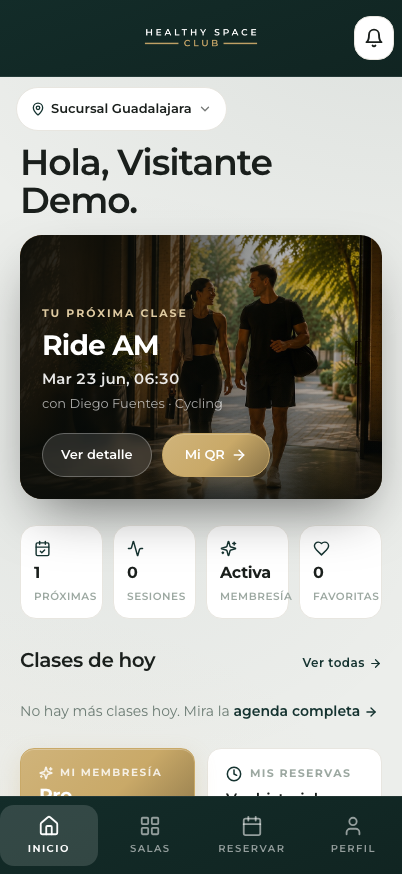
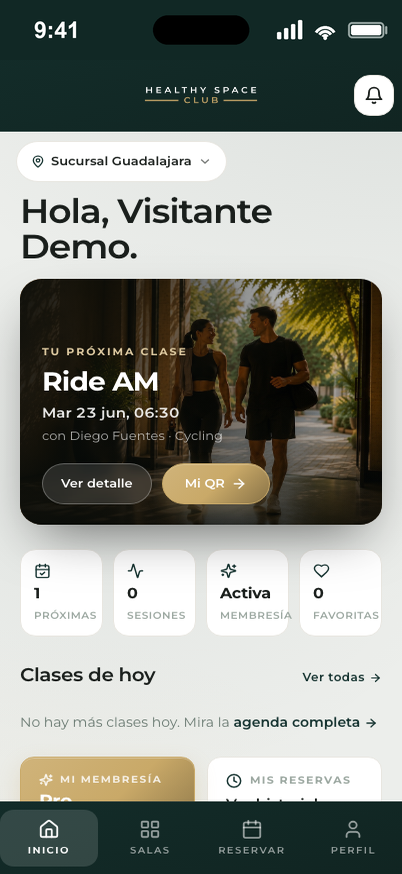
fix(showcase): status bar horneada también en los 2 teléfonos del socio
Misma barra (hora + Dynamic Island + íconos) horneada en inicio.png y socio.png
sobre el verde #112825 del header de la app. Para no recortar el bottom nav, se
mantiene el alto (402x874): barra de 60px arriba + app reescalada a 814 (squish
~7%, imperceptible). PhoneFrame con bakedStatusBar (sin notch propio).

diff --git a/src/public/pages/SalaLanding.tsx b/src/public/pages/SalaLanding.tsx
@@ -573,8 +573,8 @@ function Showcase() {
           texto="Su próxima clase y su QR de acceso al abrir. Reservan, entran a lista de espera y muestran el código desde el celular. Sin descargar nada: una web app instalable con tu marca."
           media={
             <div style={{ display: 'flex', alignItems: 'center', justifyContent: 'center', gap: 'clamp(12px, 2.5vw, 26px)', flexWrap: 'wrap' }}>
-              <PhoneFrame src={shot('inicio')} alt="Inicio de la app: tu próxima clase y tu QR de acceso" width="min(208px, 45vw)" />
-              <PhoneFrame src={shot('socio')} alt="Socio reservando una clase del día" width="min(208px, 45vw)" />
+              <PhoneFrame src={shot('inicio')} alt="Inicio de la app: tu próxima clase y tu QR de acceso" width="min(208px, 45vw)" bakedStatusBar />
+              <PhoneFrame src={shot('socio')} alt="Socio reservando una clase del día" width="min(208px, 45vw)" bakedStatusBar />
             </div>
           }
         />
